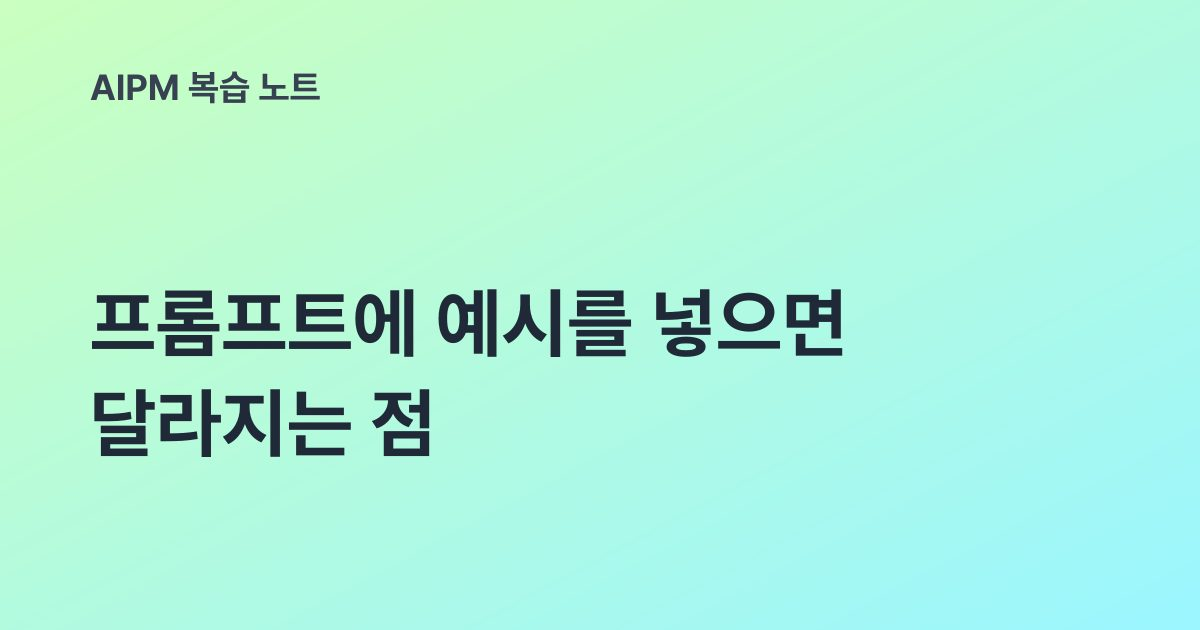
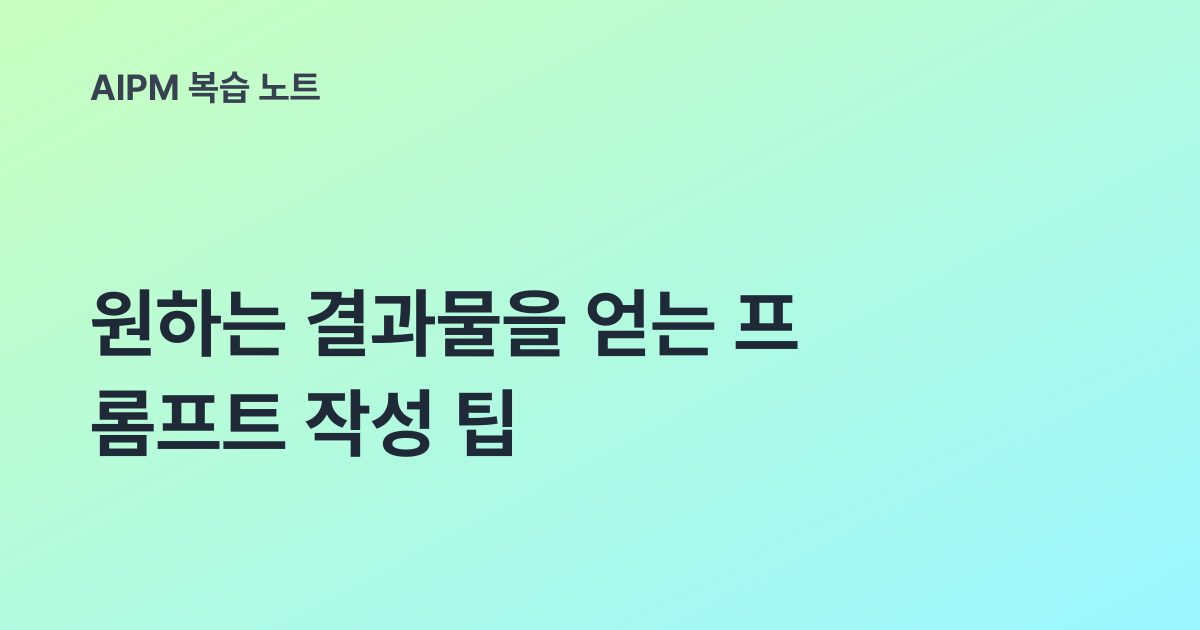
chore: 링크 미리보기 페이지 자동 갱신

Changed region(s): [[0.0617, 0.4524, 0.7092, 0.573], [0.0617, 0.6032, 0.4317, 0.7238]]

diff --git a/p/Ja3kbcJXvAI9yNqBqVKR.html b/p/Ja3kbcJXvAI9yNqBqVKR.html
@@ -1,20 +1,20 @@
 <!DOCTYPE html>
 <html lang="ko"><head><meta charset="utf-8">
-<title>프롬프트에 예시를 넣으면 달라지는 점 | AIPM 복습 노트</title>
+<title>원하는 결과물을 얻는 프롬프트 작성 팁 | AIPM 복습 노트</title>
 <meta name="viewport" content="width=device-width, initial-scale=1">
 <meta name="description" content="프롬프트에 원하는 결과의 예시를 한두 개 넣는 방법을 실습했다. 말로 설명할 때보다 형식과 말투가 훨씬 안정">
 <meta property="og:type" content="article">
 <meta property="og:site_name" content="AIPM 복습 노트">
-<meta property="og:title" content="프롬프트에 예시를 넣으면 달라지는 점">
+<meta property="og:title" content="원하는 결과물을 얻는 프롬프트 작성 팁">
 <meta property="og:description" content="프롬프트에 원하는 결과의 예시를 한두 개 넣는 방법을 실습했다. 말로 설명할 때보다 형식과 말투가 훨씬 안정">
 <meta property="og:url" content="https://yourrhdiddl.github.io/blog/p/Ja3kbcJXvAI9yNqBqVKR.html">
-<meta property="og:image" content="https://yourrhdiddl.github.io/blog/og/Ja3kbcJXvAI9yNqBqVKR.jpg?v=5805563b">
+<meta property="og:image" content="https://yourrhdiddl.github.io/blog/og/Ja3kbcJXvAI9yNqBqVKR.jpg?v=6e5dcc41">
 <meta property="og:image:width" content="1200">
 <meta property="og:image:height" content="630">
 <meta name="twitter:card" content="summary_large_image">
-<meta name="twitter:title" content="프롬프트에 예시를 넣으면 달라지는 점">
+<meta name="twitter:title" content="원하는 결과물을 얻는 프롬프트 작성 팁">
 <meta name="twitter:description" content="프롬프트에 원하는 결과의 예시를 한두 개 넣는 방법을 실습했다. 말로 설명할 때보다 형식과 말투가 훨씬 안정">
-<meta name="twitter:image" content="https://yourrhdiddl.github.io/blog/og/Ja3kbcJXvAI9yNqBqVKR.jpg?v=5805563b">
+<meta name="twitter:image" content="https://yourrhdiddl.github.io/blog/og/Ja3kbcJXvAI9yNqBqVKR.jpg?v=6e5dcc41">
 <script>location.replace("../#/post/Ja3kbcJXvAI9yNqBqVKR")</script>
 <noscript><meta http-equiv="refresh" content="0;url=../#/post/Ja3kbcJXvAI9yNqBqVKR"></noscript>
-</head><body><p><a href="../#/post/Ja3kbcJXvAI9yNqBqVKR">프롬프트에 예시를 넣으면 달라지는 점 글 보러 가기</a></p></body></html>
+</head><body><p><a href="../#/post/Ja3kbcJXvAI9yNqBqVKR">원하는 결과물을 얻는 프롬프트 작성 팁 글 보러 가기</a></p></body></html>
